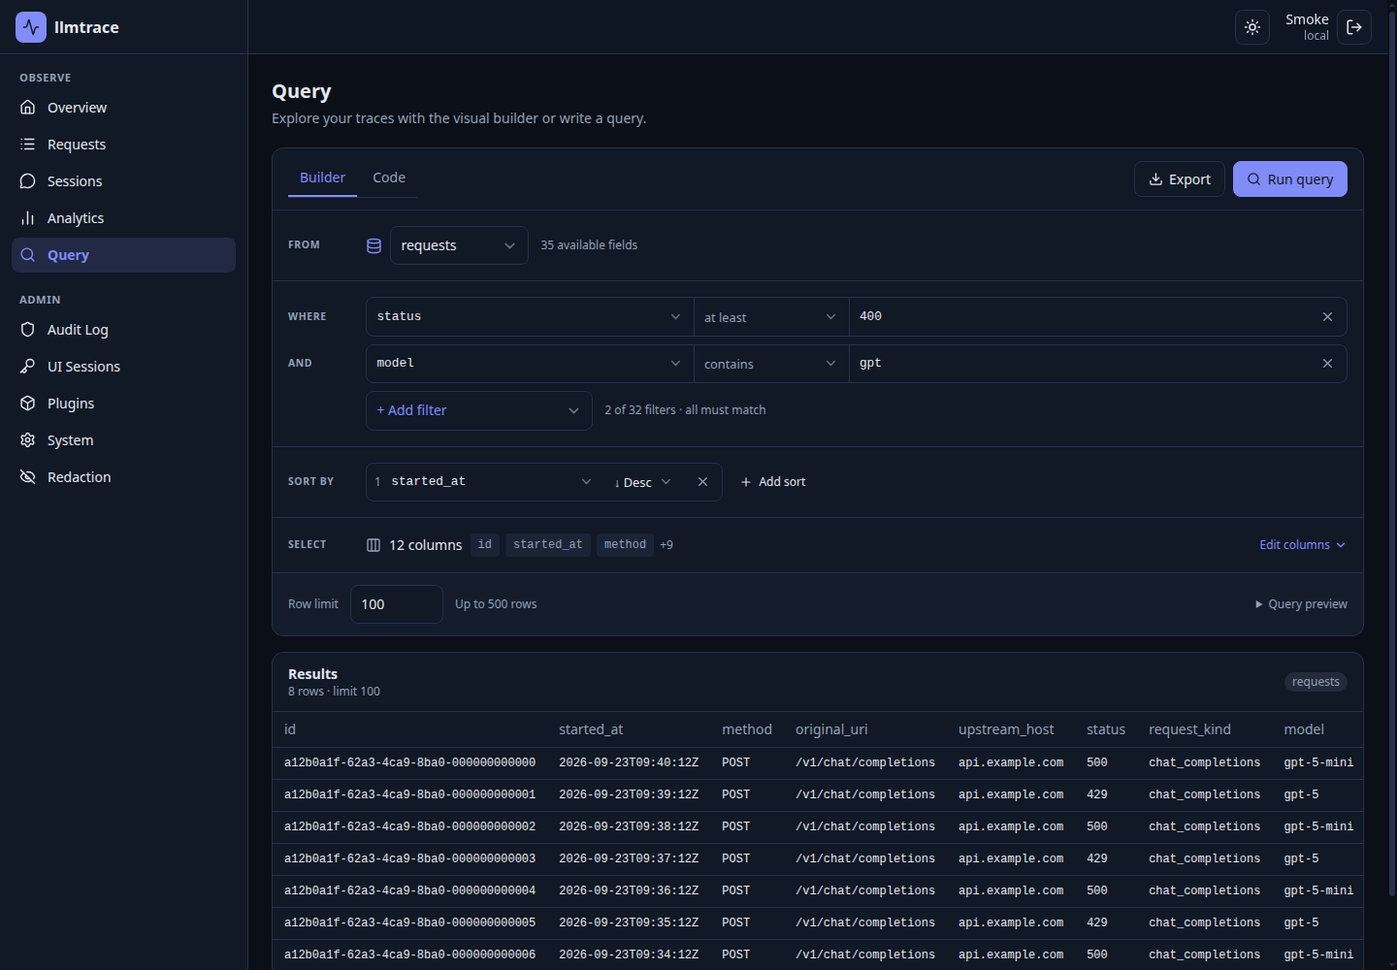
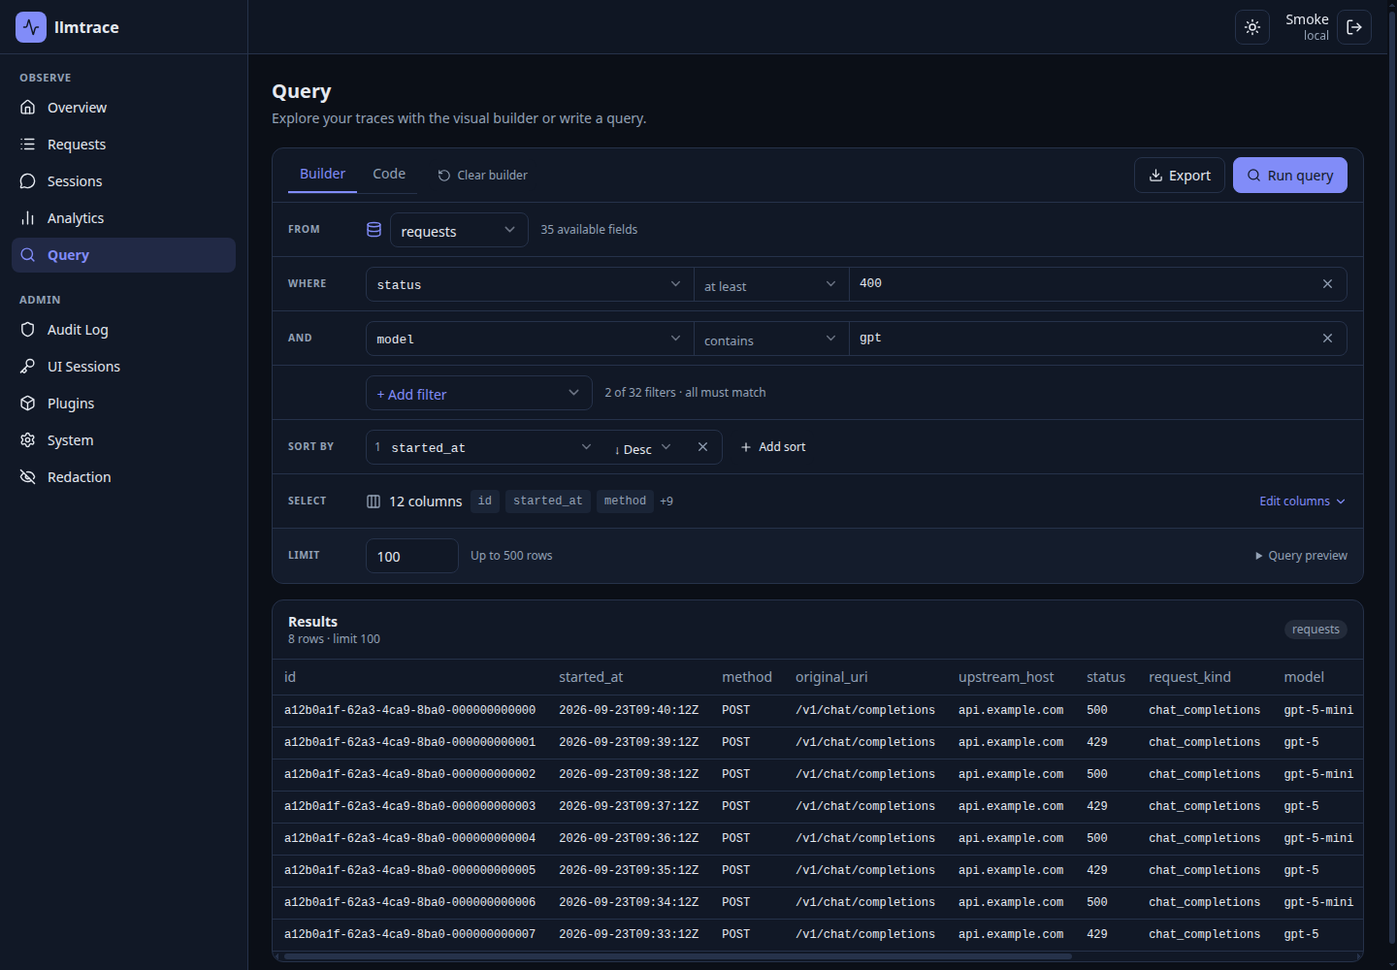
Align query builder rows and add clear action

diff --git a/crates/llmtrace/ui/src/routes/(app)/query/+page.svelte b/crates/llmtrace/ui/src/routes/(app)/query/+page.svelte
@@ -7,6 +7,7 @@
 	import InboxIcon from '@lucide/svelte/icons/inbox';
 	import PlusIcon from '@lucide/svelte/icons/plus';
 	import RefreshCwIcon from '@lucide/svelte/icons/refresh-cw';
+	import RotateCcwIcon from '@lucide/svelte/icons/rotate-ccw';
 	import SearchIcon from '@lucide/svelte/icons/search';
 	import XIcon from '@lucide/svelte/icons/x';
 	import { onMount } from 'svelte';
@@ -121,6 +122,18 @@
 	function onDatasetChange(name: string) {
 		const spec = schema.data?.datasets.find((d) => d.name === name);
 		if (spec) applyDatasetDefaults(spec);
+	}
+
+	function clearBuilder() {
+		if (!currentDataset || running) return;
+		applyDatasetDefaults(currentDataset);
+		orderBy = [];
+		limit = 100;
+		code = '';
+		savedCodeDraft = null;
+		builderAtCodeError = '';
+		codeAtEntry = '';
+		modeNotice = null;
 	}
 
 	function toggleField(name: string) {
@@ -354,8 +367,15 @@
 {:else if schema.data}
 	<div class="flex min-w-0 flex-col gap-4">
 		<section class="card min-w-0" aria-label="Query composer">
-			<div class="flex flex-wrap items-center justify-between gap-3 border-b border-border px-4 py-3">
-				<Tabs tabs={[{ id: 'builder', label: 'Builder' }, { id: 'code', label: 'Code' }]} active={mode} onChange={changeMode} />
+			<div class="composer-toolbar flex flex-wrap items-center justify-between gap-3 border-b border-border px-4 py-2">
+				<div class="flex flex-wrap items-center gap-3">
+					<Tabs tabs={[{ id: 'builder', label: 'Builder' }, { id: 'code', label: 'Code' }]} active={mode} onChange={changeMode} />
+					{#if mode === 'builder'}
+						<button type="button" class="btn !border-transparent !px-2 text-xs text-fg-muted" onclick={clearBuilder} disabled={running}>
+							<RotateCcwIcon size={14} /> Clear builder
+						</button>
+					{/if}
+				</div>
 				<div class="flex items-center gap-2">
 					<button type="button" class="btn" onclick={exportResults} disabled={running}>
 						<DownloadIcon size={15} /> Export
@@ -368,128 +388,132 @@
 			{#if modeNotice}<p class="border-b border-border px-4 py-3 text-sm text-fg-muted" role="status">{modeNotice}</p>{/if}
 			{#if runError}<p class="border-b border-border px-4 py-3 text-sm text-danger" role="alert">{runError}</p>{/if}
 			{#if mode === 'builder'}
-				<div class="clause-row border-b border-border px-4 py-4">
-					<label for="query-dataset" class="clause-label">From</label>
-					<div class="flex min-w-0 flex-wrap items-center gap-3">
-						<div class="flex items-center gap-2 text-brand">
-							<DatabaseIcon size={17} />
-							<select id="query-dataset" aria-label="Dataset" class="input !w-auto max-w-full pr-8 font-medium" value={dataset} onchange={(e) => onDatasetChange(e.currentTarget.value)}>
-								{#each schema.data.datasets as ds (ds.name)}<option value={ds.name}>{ds.name}</option>{/each}
-							</select>
-						</div>
-						<span class="text-xs text-fg-muted">{currentDataset?.fields.length ?? 0} available fields</span>
-					</div>
-				</div>
-
-				<div class="space-y-2 border-b border-border px-4 py-4" role="group" aria-label="Filters · match all conditions">
-					{#each filters as row, index (row.id)}
-						{@const inputKind = valueInputKind(rowKind(row), row.op)}
-						<div class="clause-row">
-							<span class="clause-label">{index === 0 ? 'Where' : 'And'}</span>
-							<div class="condition">
-								{#if row.custom}
-									<input class="input condition-field font-mono" aria-label="Plugin metadata path" placeholder="plugin_metadata.name.path" bind:value={row.field} />
-								{:else}
-									<select class="input condition-field pr-8 font-mono" aria-label="Filter field" value={row.field} onchange={(e) => onFilterFieldChange(row, e.currentTarget.value)}>
-										{#each filterableFields as f (f.name)}<option value={f.name}>{f.name}</option>{/each}
-									</select>
-								{/if}
-								<select class="input condition-operator pr-8" aria-label="Filter operator" value={row.op} onchange={(e) => onFilterOperatorChange(row, e.currentTarget.value as QueryOp)}>
-									{#each rowOperators(row) as op (op)}<option value={op}>{operatorLabels[op]}</option>{/each}
+				<div class="builder">
+					<div class="clause-row border-b border-border">
+						<label for="query-dataset" class="clause-label">From</label>
+						<div class="flex min-w-0 flex-wrap items-center gap-3">
+							<div class="flex items-center gap-2 text-brand">
+								<DatabaseIcon size={17} />
+								<select id="query-dataset" aria-label="Dataset" class="input !w-auto max-w-full pr-8 font-medium" value={dataset} onchange={(e) => onDatasetChange(e.currentTarget.value)}>
+									{#each schema.data.datasets as ds (ds.name)}<option value={ds.name}>{ds.name}</option>{/each}
 								</select>
-								{#if inputKind === 'bool'}
-									<select class="input condition-value pr-8" aria-label="Filter value" bind:value={row.value}>
-										<option value="true">true</option><option value="false">false</option>
-									</select>
-								{:else if inputKind === 'int'}
-									<input class="input condition-value font-mono" aria-label="Filter value" type="number" placeholder="Enter a number" bind:value={row.value} />
-								{:else if inputKind !== 'none'}
-									<input class="input condition-value font-mono" aria-label="Filter value" placeholder={inputKind === 'timestamp' ? 'YYYY-MM-DDTHH:mm:ssZ' : row.custom || rowKind(row) === 'json' ? 'Text or JSON value' : 'Enter a value'} bind:value={row.value} />
-								{:else}
-									<span class="condition-value px-3 text-xs text-fg-muted">No value needed</span>
-								{/if}
-								<button type="button" class="remove-button" aria-label="Remove filter" title="Remove filter" onclick={() => removeFilter(row.id)}><XIcon size={15} /></button>
 							</div>
-						</div>
-					{/each}
-					<div class="clause-row">
-						<span class="clause-label">{filters.length ? '' : 'Where'}</span>
-						<div class="flex flex-wrap items-center gap-3">
-							<select class="input !w-auto max-w-full cursor-pointer pr-8 text-brand" aria-label="Add filter" value="" disabled={filters.length >= maxFilters} onchange={(e) => { addFilter(e.currentTarget.value); e.currentTarget.value = ''; }}>
-								<option value="" disabled>+ Add filter</option>
-								{#each filterableFields as f (f.name)}<option value={f.name}>{f.name}</option>{/each}
-								{#if supportsPluginMetadata}<option value="__plugin__">Plugin metadata path…</option>{/if}
-							</select>
-							<span class="text-xs text-fg-muted">{filters.length ? `${filters.length} of ${maxFilters} filters · all must match` : 'All rows match. Add a filter to narrow your search.'}</span>
+							<span class="text-xs text-fg-muted">{currentDataset?.fields.length ?? 0} available fields</span>
 						</div>
 					</div>
-				</div>
 
-				<div class="clause-row border-b border-border px-4 py-4">
-					<span class="clause-label">Sort by</span>
-					<div class="flex min-w-0 flex-wrap items-center gap-2" role="group" aria-label="Sort order">
-						{#each orderBy as row, index (row.id)}
-							<div class="sort-key">
-								<span class="pl-2 text-xs text-fg-muted" title="Sort priority">{index + 1}</span>
-								{#if !fieldSpec(row.field)}
-									<input class="input min-w-0 flex-1 font-mono" aria-label="Sort field" bind:value={row.field} />
-								{:else}
-									<select class="input min-w-0 flex-1 pr-8 font-mono" aria-label="Sort field" bind:value={row.field}>
-										{#each currentDataset?.fields ?? [] as f (f.name)}<option value={f.name}>{f.name}</option>{/each}
+					<div role="group" aria-label="Filters · match all conditions">
+						{#each filters as row, index (row.id)}
+							{@const inputKind = valueInputKind(rowKind(row), row.op)}
+							<div class="clause-row border-b border-border">
+								<span class="clause-label">{index === 0 ? 'Where' : 'And'}</span>
+								<div class="condition">
+									{#if row.custom}
+										<input class="input condition-field font-mono" aria-label="Plugin metadata path" placeholder="plugin_metadata.name.path" bind:value={row.field} />
+									{:else}
+										<select class="input condition-field pr-8 font-mono" aria-label="Filter field" value={row.field} onchange={(e) => onFilterFieldChange(row, e.currentTarget.value)}>
+											{#each filterableFields as f (f.name)}<option value={f.name}>{f.name}</option>{/each}
+										</select>
+									{/if}
+									<select class="input condition-operator pr-8" aria-label="Filter operator" value={row.op} onchange={(e) => onFilterOperatorChange(row, e.currentTarget.value as QueryOp)}>
+										{#each rowOperators(row) as op (op)}<option value={op}>{operatorLabels[op]}</option>{/each}
 									</select>
-								{/if}
-								<select class="input !w-auto shrink-0 pr-8" aria-label="Sort direction" bind:value={row.direction}>
-									{#each schema.data.sort_directions as dir (dir)}<option value={dir}>{dir === 'asc' ? '↑ Asc' : '↓ Desc'}</option>{/each}
-								</select>
-								<button type="button" class="remove-button" aria-label="Remove sort" title="Remove sort" onclick={() => removeOrder(row.id)}><XIcon size={15} /></button>
+									{#if inputKind === 'bool'}
+										<select class="input condition-value pr-8" aria-label="Filter value" bind:value={row.value}>
+											<option value="true">true</option><option value="false">false</option>
+										</select>
+									{:else if inputKind === 'int'}
+										<input class="input condition-value font-mono" aria-label="Filter value" type="number" placeholder="Enter a number" bind:value={row.value} />
+									{:else if inputKind !== 'none'}
+										<input class="input condition-value font-mono" aria-label="Filter value" placeholder={inputKind === 'timestamp' ? 'YYYY-MM-DDTHH:mm:ssZ' : row.custom || rowKind(row) === 'json' ? 'Text or JSON value' : 'Enter a value'} bind:value={row.value} />
+									{:else}
+										<span class="condition-value px-3 text-xs text-fg-muted">No value needed</span>
+									{/if}
+									<button type="button" class="remove-button" aria-label="Remove filter" title="Remove filter" onclick={() => removeFilter(row.id)}><XIcon size={15} /></button>
+								</div>
 							</div>
 						{/each}
-						<button type="button" class="btn !border-transparent !px-2 text-xs" onclick={addOrder} disabled={orderBy.length >= maxOrder || orderBy.length >= (currentDataset?.fields.length ?? 0)}><PlusIcon size={14} /> Add sort</button>
-						{#if !orderBy.length}<span class="text-xs text-fg-muted">Dataset default order</span>{/if}
+						<div class="clause-row border-b border-border">
+							<span class="clause-label">{filters.length ? '' : 'Where'}</span>
+							<div class="flex flex-wrap items-center gap-3">
+								<select class="input !w-auto max-w-full cursor-pointer pr-8 text-brand" aria-label="Add filter" value="" disabled={filters.length >= maxFilters} onchange={(e) => { addFilter(e.currentTarget.value); e.currentTarget.value = ''; }}>
+									<option value="" disabled>+ Add filter</option>
+									{#each filterableFields as f (f.name)}<option value={f.name}>{f.name}</option>{/each}
+									{#if supportsPluginMetadata}<option value="__plugin__">Plugin metadata path…</option>{/if}
+								</select>
+								<span class="text-xs text-fg-muted">{filters.length ? `${filters.length} of ${maxFilters} filters · all must match` : 'All rows match. Add a filter to narrow your search.'}</span>
+							</div>
+						</div>
 					</div>
-				</div>
 
-				<details class="columns-panel border-b border-border">
-					<summary class="clause-row cursor-pointer px-4 py-4">
-						<span class="clause-label">Select</span>
-						<span class="flex min-w-0 flex-wrap items-center gap-2 text-sm">
-							<Columns3Icon size={16} class="text-fg-muted" />
-							<span class="font-medium">{selectedFields.length} columns</span>
-							<span class="hidden min-w-0 flex-1 gap-1.5 overflow-hidden sm:flex" aria-hidden="true">
-								{#each selectedFields.slice(0, 3) as name (name)}<span class="max-w-40 truncate rounded bg-surface-muted px-2 py-1 font-mono text-xs text-fg-muted">{name}</span>{/each}
-								{#if selectedFields.length > 3}<span class="self-center text-xs text-fg-muted">+{selectedFields.length - 3}</span>{/if}
+					<div class="clause-row border-b border-border">
+						<span class="clause-label">Sort by</span>
+						<div class="flex min-w-0 flex-wrap items-center gap-2" role="group" aria-label="Sort order">
+							{#each orderBy as row, index (row.id)}
+								<div class="sort-key">
+									<span class="pl-2 text-xs text-fg-muted" title="Sort priority">{index + 1}</span>
+									{#if !fieldSpec(row.field)}
+										<input class="input min-w-0 flex-1 font-mono" aria-label="Sort field" bind:value={row.field} />
+									{:else}
+										<select class="input min-w-0 flex-1 pr-8 font-mono" aria-label="Sort field" bind:value={row.field}>
+											{#each currentDataset?.fields ?? [] as f (f.name)}<option value={f.name}>{f.name}</option>{/each}
+										</select>
+									{/if}
+									<select class="input !w-auto shrink-0 pr-8" aria-label="Sort direction" bind:value={row.direction}>
+										{#each schema.data.sort_directions as dir (dir)}<option value={dir}>{dir === 'asc' ? '↑ Asc' : '↓ Desc'}</option>{/each}
+									</select>
+									<button type="button" class="remove-button" aria-label="Remove sort" title="Remove sort" onclick={() => removeOrder(row.id)}><XIcon size={15} /></button>
+								</div>
+							{/each}
+							<button type="button" class="btn !border-transparent !px-2 text-xs" onclick={addOrder} disabled={orderBy.length >= maxOrder || orderBy.length >= (currentDataset?.fields.length ?? 0)}><PlusIcon size={14} /> Add sort</button>
+							{#if !orderBy.length}<span class="text-xs text-fg-muted">Dataset default order</span>{/if}
+						</div>
+					</div>
+
+					<details class="columns-panel">
+						<summary class="clause-row cursor-pointer border-b border-border">
+							<span class="clause-label">Select</span>
+							<span class="flex min-w-0 flex-wrap items-center gap-2 text-sm">
+								<Columns3Icon size={16} class="text-fg-muted" />
+								<span class="font-medium">{selectedFields.length} columns</span>
+								<span class="hidden min-w-0 flex-1 gap-1.5 overflow-hidden sm:flex" aria-hidden="true">
+									{#each selectedFields.slice(0, 3) as name (name)}<span class="max-w-40 truncate rounded bg-surface-muted px-2 py-1 font-mono text-xs text-fg-muted">{name}</span>{/each}
+									{#if selectedFields.length > 3}<span class="self-center text-xs text-fg-muted">+{selectedFields.length - 3}</span>{/if}
+								</span>
+								<span class="ml-auto flex items-center gap-1 text-xs text-brand">Edit columns <ChevronDownIcon size={14} /></span>
 							</span>
-							<span class="ml-auto flex items-center gap-1 text-xs text-brand">Edit columns <ChevronDownIcon size={14} /></span>
-						</span>
-					</summary>
-					<div class="px-4 pb-4 sm:pl-24">
-						<div class="mb-3 flex flex-wrap items-center gap-2">
-							<input class="input min-w-0 sm:!w-64" type="search" aria-label="Search columns" placeholder="Search columns…" bind:value={columnSearch} />
-							<button type="button" class="btn text-xs" onclick={() => selectedFields = [...(currentDataset?.default_fields ?? [])]}>Use defaults</button>
-							<button type="button" class="btn text-xs" onclick={selectAllFields} disabled={availableColumns.length > maxFields}>Select all</button>
-							<span class="ml-auto text-xs text-fg-muted">{selectedFields.length} / {maxFields} selected</span>
+						</summary>
+						<div class="border-b border-border p-4 sm:pl-24">
+							<div class="mb-3 flex flex-wrap items-center gap-2">
+								<input class="input min-w-0 sm:!w-64" type="search" aria-label="Search columns" placeholder="Search columns…" bind:value={columnSearch} />
+								<button type="button" class="btn text-xs" onclick={() => selectedFields = [...(currentDataset?.default_fields ?? [])]}>Use defaults</button>
+								<button type="button" class="btn text-xs" onclick={selectAllFields} disabled={availableColumns.length > maxFields}>Select all</button>
+								<span class="ml-auto text-xs text-fg-muted">{selectedFields.length} / {maxFields} selected</span>
+							</div>
+							<div class="grid max-h-64 gap-x-4 overflow-y-auto sm:grid-cols-2 xl:grid-cols-3">
+								{#each matchingColumns as name (name)}
+									<label class="flex min-w-0 cursor-pointer items-center gap-2 rounded px-2 py-2 hover:bg-surface-muted">
+										<input type="checkbox" class="rounded border-border text-brand focus:ring-brand" checked={selectedFields.includes(name)} disabled={selectedFields.includes(name) ? selectedFields.length === 1 : selectedFields.length >= maxFields} onchange={() => toggleField(name)} />
+										<span class="break-all font-mono text-xs">{name}</span>
+									</label>
+								{:else}<p class="py-2 text-sm text-fg-muted">No columns match “{columnSearch}”.</p>{/each}
+							</div>
 						</div>
-						<div class="grid max-h-64 gap-x-4 overflow-y-auto sm:grid-cols-2 xl:grid-cols-3">
-							{#each matchingColumns as name (name)}
-								<label class="flex min-w-0 cursor-pointer items-center gap-2 rounded px-2 py-2 hover:bg-surface-muted">
-									<input type="checkbox" class="rounded border-border text-brand focus:ring-brand" checked={selectedFields.includes(name)} disabled={selectedFields.includes(name) ? selectedFields.length === 1 : selectedFields.length >= maxFields} onchange={() => toggleField(name)} />
-									<span class="break-all font-mono text-xs">{name}</span>
-								</label>
-							{:else}<p class="py-2 text-sm text-fg-muted">No columns match “{columnSearch}”.</p>{/each}
+					</details>
+
+					<div class="clause-row rounded-b-xl bg-surface-muted/40">
+						<label for="query-limit" class="clause-label">Limit</label>
+						<div class="flex min-w-0 flex-wrap items-center gap-3">
+							<input id="query-limit" aria-label="Row limit" class="input !w-24" type="number" min="1" max={maxLimit} bind:value={limit} />
+							<span class="text-xs text-fg-muted">Up to {maxLimit} rows</span>
+							{#if preview}
+								<details class="query-preview ml-auto min-w-0 text-xs">
+									<summary class="cursor-pointer text-fg-muted">Query preview</summary>
+									<pre class="mt-3 overflow-x-auto rounded-lg border border-border bg-surface p-3 leading-6 text-fg-muted">{preview}</pre>
+								</details>
+							{/if}
 						</div>
 					</div>
-				</details>
-
-				<div class="flex flex-wrap items-center gap-3 rounded-b-xl bg-surface-muted/40 px-4 py-3">
-					<label for="query-limit" class="text-xs font-medium text-fg-muted">Row limit</label>
-					<input id="query-limit" class="input !w-24" type="number" min="1" max={maxLimit} bind:value={limit} />
-					<span class="text-xs text-fg-muted">Up to {maxLimit} rows</span>
-					{#if preview}
-						<details class="query-preview ml-auto min-w-0 text-xs">
-							<summary class="cursor-pointer text-fg-muted">Query preview</summary>
-							<pre class="mt-3 overflow-x-auto rounded-lg border border-border bg-surface p-3 leading-6 text-fg-muted">{preview}</pre>
-						</details>
-					{/if}
 				</div>
 			{:else}
 				<div class="p-4">
@@ -567,15 +591,18 @@
 {/if}
 
 <style>
-	.clause-row { display: grid; grid-template-columns: 4rem minmax(0, 1fr); gap: 1rem; align-items: center; }
+	.builder { --control-height: 36px; }
+	.composer-toolbar, .clause-row { min-height: 56px; }
+	.clause-row { display: grid; grid-template-columns: 4rem minmax(0, 1fr); gap: 1rem; align-items: center; padding: 8px 16px; }
+	.builder .input, .builder .btn { height: var(--control-height); }
 	.clause-label { color: var(--color-fg-muted); font-size: 0.65rem; font-weight: 600; letter-spacing: 0.06em; text-transform: uppercase; }
 	.condition { display: grid; grid-template-columns: minmax(10rem, 1fr) 10rem minmax(10rem, 1.4fr) 2.5rem; align-items: center; border: 1px solid var(--color-border); border-radius: 0.5rem; }
 	.condition:focus-within { border-color: var(--color-brand); }
-	.condition .input, .sort-key .input { min-width: 0; border: 0; border-radius: 0; background-color: transparent; font-size: 0.8rem; }
+	.condition .input, .sort-key .input { height: calc(var(--control-height) - 2px); min-width: 0; border: 0; border-radius: 0; background-color: transparent; font-size: 0.8rem; }
 	.condition .input:focus, .sort-key .input:focus { outline-offset: -2px; }
 	.condition .condition-field, .condition .condition-operator { border-right: 1px solid var(--color-border); }
 	.condition-operator { color: var(--color-fg-muted); }
-	.remove-button { display: inline-flex; align-items: center; justify-content: center; width: 2.5rem; height: 2.25rem; flex-shrink: 0; border-radius: 0.4rem; color: var(--color-fg-muted); cursor: pointer; }
+	.remove-button { display: inline-flex; align-items: center; justify-content: center; width: 2.5rem; height: calc(var(--control-height) - 2px); flex-shrink: 0; border-radius: 0.4rem; color: var(--color-fg-muted); cursor: pointer; }
 	.remove-button:hover { color: var(--color-danger); background: var(--color-surface-muted); }
 	.sort-key { display: flex; align-items: center; width: 23rem; max-width: 100%; border: 1px solid var(--color-border); border-radius: 0.5rem; }
 	.columns-panel > summary { list-style: none; }
@@ -588,6 +615,10 @@
 		.condition .condition-operator { grid-column: 1; grid-row: 2; }
 		.condition-value { grid-column: 2 / 4; grid-row: 2; }
 		.condition .remove-button { grid-column: 3; grid-row: 1; }
+	}
+	@media (max-width: 767px) {
+		.builder { --control-height: 46px; }
+		.clause-row { min-height: 64px; }
 	}
 	@media (max-width: 639px) {
 		.clause-row { grid-template-columns: minmax(0, 1fr); gap: 0.5rem; }

diff --git a/crates/llmtrace/ui/src/routes/(app)/query/page.test.ts b/crates/llmtrace/ui/src/routes/(app)/query/page.test.ts
@@ -170,6 +170,43 @@ it.each(['0', '501', '1.5', ''])('blocks invalid row limit %j before sending the
 	expect(target.querySelector('[role="alert"]')?.textContent).toContain('between 1 and 500');
 });
 
+it('clears builder conditions, projections, sorting and results without running a query', async () => {
+	await click('Code');
+	await writeCode('SELECT id, model FROM requests WHERE status >= 400 ORDER BY model ASC LIMIT 7');
+	await click('Builder');
+	await click('Run query');
+	await setControl('[aria-label="Search columns"]', 'model');
+	await setControl('#query-limit', '0');
+	await click('Run query');
+	expect(target.querySelector('[role="alert"]')).not.toBeNull();
+	await click('Clear builder');
+	expect(queryApi.runQuery).toHaveBeenCalledTimes(1);
+	expect(target.querySelector('[role="alert"]')).toBeNull();
+	expect(target.textContent).toContain('No results yet');
+	expect(target.querySelector('[aria-label="Filter field"]')).toBeNull();
+	expect(target.querySelector('[aria-label="Sort field"]')).toBeNull();
+	expect(target.querySelector<HTMLInputElement>('[aria-label="Search columns"]')?.value).toBe('');
+	await click('Run query');
+	expect(queryApi.runQuery).toHaveBeenLastCalledWith({
+		dataset: 'requests', fields: ['id'], filters: undefined, order_by: undefined, limit: 100
+	});
+});
+
+it('keeps the current dataset on clear and prevents an old code draft from returning', async () => {
+	await setControl('[aria-label="Dataset"]', 'sessions');
+	await click('Code');
+	await writeCode('SELECT session_key FROM sessions WHERE');
+	await click('Builder');
+	await click('Clear builder');
+	expect(target.querySelector<HTMLSelectElement>('[aria-label="Dataset"]')?.value).toBe('sessions');
+	await click('Code');
+	expect(parseQueryText(editor().state.doc.toString(), schema)).toEqual({
+		dataset: 'sessions', fields: ['session_key'], filters: [],
+		order_by: [{ field: 'session_key', direction: 'asc' }], limit: 100
+	});
+	expect(target.textContent).not.toContain('Restore code draft');
+});
+
 it('executes the same query after Code to Builder to Code conversion', async () => {
 	await click('Code');
 	const code = `SELECT id, "plugin_metadata.My-plugin.team" FROM requests

diff --git a/docs/query-editor.md b/docs/query-editor.md
@@ -28,6 +28,13 @@ column stays selected, and the schema's column, filter and sort limits are enfor
 by the controls. Numbered sort keys show their priority. Removing all sort keys
 uses the dataset's default order. The row limit is checked before execution.
 
+Desktop clause rows share a 56px height and 36px controls, including each filter
+and the limit row. Rows expand when controls wrap on smaller screens; mobile
+controls retain at least 44px touch targets. **Clear builder** keeps the current
+dataset, removes filters and explicit sort keys, restores default columns and a
+100-row limit, and clears results, errors and the associated code draft. It does
+not execute a query and is disabled while a query is running.
+
 On smaller screens, each condition wraps into a field row and an operator/value
 row. The results table scrolls horizontally within its own container. Column
 selection and query preview use native disclosure controls with keyboard support;
@@ -56,7 +63,7 @@ Screenshots with synthetic rows: [desktop, light](ui-review/query-builder/deskto
 [mobile](ui-review/query-builder/mobile-light.png). Browser checks covered
 360, 390, 768, 1024 and 1440 pixel widths, keyboard disclosure, column search,
 typed query requests, result rendering and mode switching. Frontend validation:
-`pnpm test` (195 passed), `pnpm run check` (no diagnostics), `pnpm run build`.
+`pnpm test` (197 passed), `pnpm run check` (no diagnostics), `pnpm run build`.
 `cargo test --workspace`: 310 passed, 28 ignored.
 
 The implementation uses CodeMirror and translates the supported statement grammar
